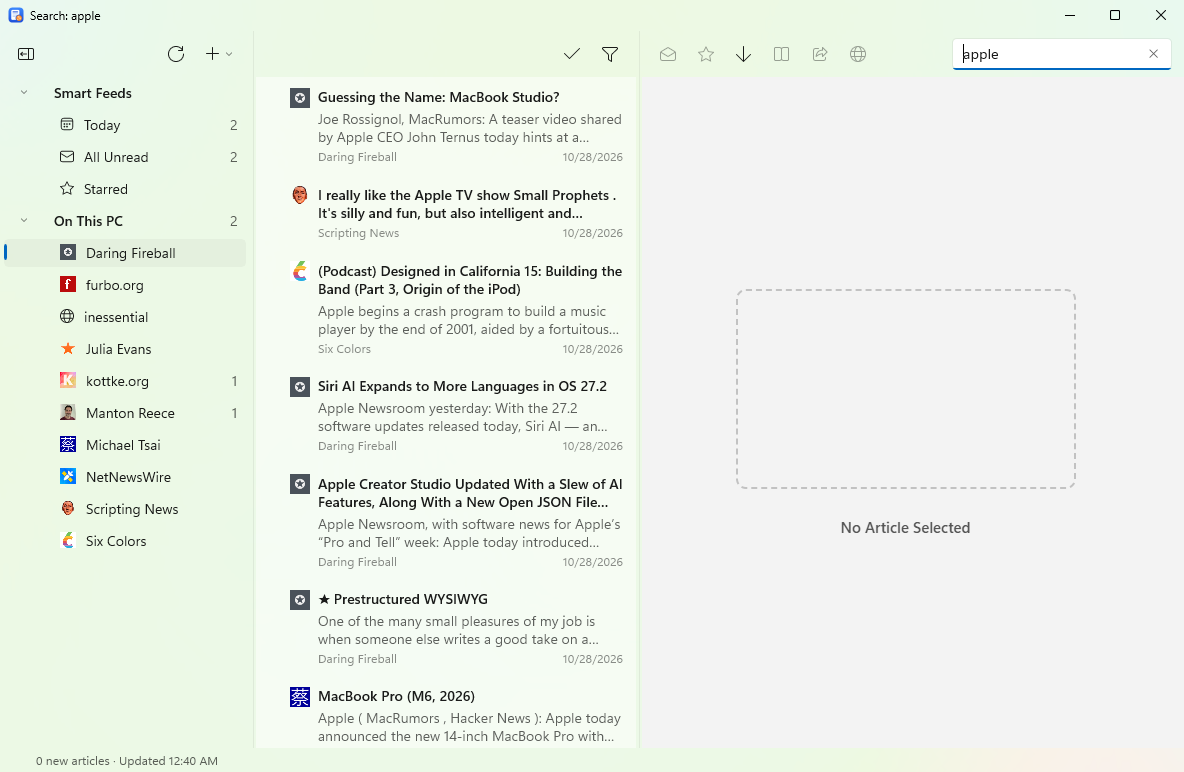
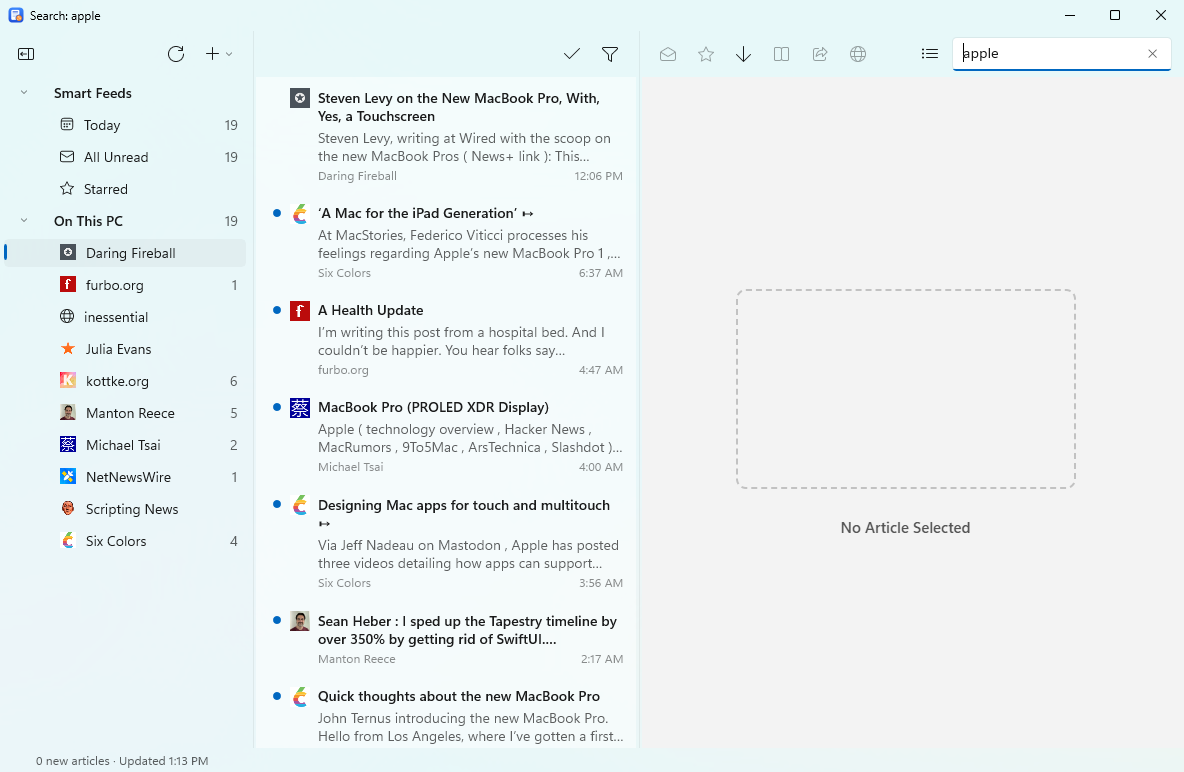
Add Group by Feed, search scope, timeline separators and pane font sizes
Group by Feed in the +▾ menu keeps each feed's articles together in name
order. A button beside the search box limits a search to the selected feed,
folder or smart feed. The hidden preferences TimelineSeparators,
SidebarFontSize and TimelineFontSize are read from settings.json. Help, PLAN
and the parity matrix are updated, and the screenshots retaken for the new
search button.

diff --git a/src/App/MainWindow.xaml b/src/App/MainWindow.xaml
@@ -94,6 +94,7 @@
                                                       IsChecked="{x:Bind ViewModel.HideReadFeeds, Mode=OneWay}" Click="OnToggleHideReadFeeds" />
                                 <RadioMenuFlyoutItem Text="Newest Article on Top" GroupName="Sort" IsChecked="{x:Bind ViewModel.SortNewestFirst, Mode=OneWay}" Click="OnSortNewestFirst" />
                                 <RadioMenuFlyoutItem Text="Oldest Article on Top" GroupName="Sort" IsChecked="{x:Bind ViewModel.SortOldestFirst, Mode=OneWay}" Click="OnSortOldestFirst" />
+                                <ToggleMenuFlyoutItem Text="Group by Feed" IsChecked="{x:Bind ViewModel.GroupByFeed, Mode=OneWay}" Click="OnToggleGroupByFeed" />
                                 <MenuFlyoutItem Text="Clean Up" KeyboardAcceleratorTextOverride="Ctrl+'"
                                                 IsEnabled="{x:Bind ViewModel.IsHidingReadArticles, Mode=OneWay}" Click="OnCleanUp" />
                                 <MenuFlyoutSeparator />
@@ -185,10 +186,18 @@
                     </Button>
                 </StackPanel>
                 <!-- NetNewsWire's toolbar search field: searches every article in every account. -->
-                <TextBox x:Name="SearchBox" Grid.Column="1" HorizontalAlignment="Right" VerticalAlignment="Center" Width="220"
-                         PlaceholderText="Search (Ctrl+Alt+F)" AutomationProperties.Name="Search Articles"
-                         Text="{x:Bind ViewModel.SearchText, Mode=TwoWay, UpdateSourceTrigger=PropertyChanged}"
-                         TextChanged="OnSearchTextChanged" KeyDown="OnSearchKeyDown" />
+                <StackPanel Grid.Column="1" Orientation="Horizontal" Spacing="4" HorizontalAlignment="Right" VerticalAlignment="Center">
+                    <!-- NetNewsWire's search scope: this feed, folder or smart feed only, rather than every article. -->
+                    <ToggleButton Style="{StaticResource ToolbarToggleButtonStyle}" Click="OnToggleSearchScope"
+                                  IsChecked="{x:Bind ViewModel.SearchCurrentTimeline, Mode=OneWay}"
+                                  ToolTipService.ToolTip="Search only the current feed, folder or smart feed" AutomationProperties.Name="Search Current Feed Only">
+                        <FontIcon Glyph="&#xE8FD;" FontSize="16" />
+                    </ToggleButton>
+                    <TextBox x:Name="SearchBox" Width="220"
+                             PlaceholderText="Search (Ctrl+Alt+F)" AutomationProperties.Name="Search Articles"
+                             Text="{x:Bind ViewModel.SearchText, Mode=TwoWay, UpdateSourceTrigger=PropertyChanged}"
+                             TextChanged="OnSearchTextChanged" KeyDown="OnSearchKeyDown" />
+                </StackPanel>
             </Grid>
 
             <TreeView x:Name="Sidebar" Grid.Row="1" Grid.Column="0" ItemsSource="{x:Bind ViewModel.SidebarItems}" DoubleTapped="OnSidebarDoubleTapped"
@@ -200,7 +209,7 @@
                 <TreeView.ItemTemplate>
                     <DataTemplate x:DataType="vm:SidebarItem">
                         <TreeViewItem ItemsSource="{x:Bind Children}" IsExpanded="{x:Bind IsExpanded, Mode=OneWay}"
-                                      ContextFlyout="{StaticResource SidebarMenu}"
+                                      ContextFlyout="{StaticResource SidebarMenu}" FontSize="{x:Bind vm:SidebarItem.TextSize}"
                                       AutomationProperties.Name="{x:Bind Title, Mode=OneWay}">
                             <!-- Drops land on the row's content, ahead of the tree's own drop handling, which would
                                  rearrange rows itself. -->
@@ -232,6 +241,7 @@
                 <ListView.ItemTemplate>
                     <DataTemplate x:DataType="vm:ArticleItem">
                         <Grid Padding="0,10" ColumnSpacing="8" ContextFlyout="{StaticResource ArticleMenu}"
+                              BorderThickness="{x:Bind vm:ArticleItem.SeparatorThickness}" BorderBrush="{ThemeResource DividerStrokeColorDefaultBrush}"
                               AutomationProperties.Name="{x:Bind Title}">
                             <Grid.ColumnDefinitions>
                                 <ColumnDefinition Width="10" />

diff --git a/site/help/index.html b/site/help/index.html
@@ -60,7 +60,7 @@
 			</figure>
 			<p>The <strong>+▾</strong> menu over the sidebar is where most of the less-used commands live:</p>
 			<figure class="shot narrow">
-				<img src="images/new-menu.png" width="292" height="853" alt="The +▾ menu, listing New Feed, New Folder, Import and Export Subscriptions, Add FreshRSS Account, Hide Read Feeds, sort order, Clean Up, Article Theme, Text Size, Enable JavaScript, Undo and Redo, Hide Toolbar, Window, Find in Article, Full Screen, Preferences and Help." loading="lazy">
+				<img src="images/new-menu.png" width="292" height="893" alt="The +▾ menu, listing New Feed, New Folder, Import and Export Subscriptions, Add FreshRSS Account, Hide Read Feeds, sort order, Group by Feed, Clean Up, Article Theme, Text Size, Enable JavaScript, Undo and Redo, Hide Toolbar, Window, Find in Article, Full Screen, Preferences and Help." loading="lazy">
 				<figcaption>The +▾ menu.</figcaption>
 			</figure>
 		</section>
@@ -90,6 +90,7 @@
 			</figure>
 
 			<p>Right-click an article for more: <strong>Mark Above as Read</strong> and <strong>Mark Below as Read</strong> catch up on everything newer or older in the list, and you can jump to the article's feed in the sidebar or mark everything in that feed as read.</p>
+			<p><strong>+▾ → Group by Feed</strong> keeps each feed's articles together in the timeline, feeds in name order, with the newest (or oldest) first inside each feed.</p>
 			<p>To see only what you haven't read, turn on <strong>Hide Read Articles</strong> over the timeline (per feed or folder), and <strong>+▾ → Hide Read Feeds</strong>. <strong>+▾ → Clean Up</strong> (<kbd>Ctrl</kbd>+<kbd>'</kbd>) clears articles you've just read out of a timeline that's hiding read ones. The sort order is in the +▾ menu too.</p>
 		</section>
 
@@ -154,6 +155,7 @@
 				<img src="images/search.png" width="1184" height="772" alt="The search box containing “apple”, and the timeline showing matching articles from several feeds." loading="lazy">
 				<figcaption>Searching every feed for “apple”.</figcaption>
 			</figure>
+			<p>To search only what the timeline is showing, press the list button beside the search box first: results are then limited to the selected feed, folder or smart feed. Press it again to search everything.</p>
 			<p>Press <kbd>Enter</kbd> to jump to the results. Press <kbd>Escape</kbd>, clear the box or choose something in the sidebar to stop searching.</p>
 		</section>
 
@@ -186,7 +188,9 @@
 			<ul>
 				<li><code>SuppressRefreshOnLaunch</code>: don't refresh when the app starts.</li>
 				<li><code>ArticleTitleInWindowTitle</code>: the window's title is the selected article's title.</li>
+				<li><code>TimelineSeparators</code>: a line between the articles in the timeline.</li>
 				<li><code>DoubleClickFeedMarksRead</code>: double-clicking a feed in the sidebar marks it read, instead of opening its home page.</li>
+				<li><code>SidebarFontSize</code> and <code>TimelineFontSize</code>: the size of the text in those two panes, in points, such as <code>16</code>. These are numbers; <code>0</code> keeps the default.</li>
 			</ul>
 		</section>
 

diff --git a/src/App/ViewModels/MainViewModel.cs b/src/App/ViewModels/MainViewModel.cs
@@ -716,6 +716,16 @@ public sealed partial class MainViewModel : ObservableObject
 		LoadSidebar();
 	}
 
+	public bool GroupByFeed => Settings.GroupByFeed;
+
+	public void SetGroupByFeed(bool group)
+	{
+		Settings.GroupByFeed = group;
+		SaveSettings();
+		OnPropertyChanged(nameof(GroupByFeed));
+		LoadArticles(keepSelection: true);
+	}
+
 	public void SetSortOldestFirst(bool oldestFirst)
 	{
 		Settings.SortOldestFirst = oldestFirst;
@@ -1311,6 +1321,21 @@ public sealed partial class MainViewModel : ObservableObject
 
 	private string? _searchString;
 
+	/// <summary>
+	/// NetNewsWire's search scope: with this on, a search looks only in what the timeline was showing (a feed, a folder or
+	/// a smart feed), not in every article. It has no effect when nothing with articles is selected.
+	/// </summary>
+	[ObservableProperty]
+	public partial bool SearchCurrentTimeline { get; set; }
+
+	partial void OnSearchCurrentTimelineChanged(bool value)
+	{
+		if (_searchString is not null)
+		{
+			LoadArticles(keepSelection: false);
+		}
+	}
+
 	public bool IsSearching => _searchString is not null;
 
 	/// <summary>
@@ -1417,7 +1442,7 @@ public sealed partial class MainViewModel : ObservableObject
 		var selected = keepSelection ? SelectedArticle : null;
 		var selectedMany = keepSelection && SelectedArticles.Count > 1 ? SelectedArticles : null;
 		var pairs = _searchString is { } search
-			? Accounts.ToList().SelectMany(account => account.Store.Search(search).Select(article => (Account: account, Article: article)))
+			? SearchResults(search)
 			: ArticlesFor(SelectedSidebarItem);
 		if (_searchString is null && SelectedSidebarItem is { } item && HidesReadArticles(item))
 		{
@@ -1430,10 +1455,9 @@ public sealed partial class MainViewModel : ObservableObject
 		{
 			list.Add((selected.Account, current));
 		}
-		var newestFirst = list.OrderByDescending(pair => pair.Article.LogicalDatePublished).ThenBy(pair => pair.Article.ArticleId, StringComparer.Ordinal);
-		var ordered = Settings.SortOldestFirst ? newestFirst.Reverse() : newestFirst;
 		var feedNames = list.Select(pair => pair.Account).Distinct()
 			.ToDictionary(account => account, account => account.Store.GetFeeds().ToDictionary(feed => feed.FeedId, NameSorting.DisplayName));
+		var ordered = Ordered(list, feedNames);
 		Articles = [.. ordered.Select(pair => new ArticleItem(pair.Account, pair.Article,
 			feedNames[pair.Account].GetValueOrDefault(pair.Article.FeedId, ""), _icons.GetValueOrDefault(IconKey(pair.Account, pair.Article.FeedId))))];
 		// Keeping the selection across a reload isn't the reader choosing the article again, so it doesn't mark it
@@ -1460,6 +1484,35 @@ public sealed partial class MainViewModel : ObservableObject
 		{
 			_restoringSelection = false;
 		}
+	}
+
+	/// <summary>
+	/// The timeline's order: by date, newest first unless the reader chose oldest first, with the feeds' articles kept
+	/// together, in the order of the feeds' names, when "Group by Feed" is on.
+	/// </summary>
+	private IEnumerable<(IAccount Account, StoredArticle Article)> Ordered(
+		List<(IAccount Account, StoredArticle Article)> list,
+		Dictionary<IAccount, Dictionary<string, string>> feedNames)
+	{
+		var newestFirst = list.OrderByDescending(pair => pair.Article.LogicalDatePublished).ThenBy(pair => pair.Article.ArticleId, StringComparer.Ordinal).ToList();
+		if (Settings.SortOldestFirst)
+		{
+			newestFirst.Reverse();
+		}
+		return Settings.GroupByFeed
+			? newestFirst.OrderBy(pair => feedNames[pair.Account].GetValueOrDefault(pair.Article.FeedId, ""), StringComparer.CurrentCultureIgnoreCase)
+			: newestFirst;
+	}
+
+	private IEnumerable<(IAccount Account, StoredArticle Article)> SearchResults(string search)
+	{
+		var hits = Accounts.ToList().SelectMany(account => account.Store.Search(search).Select(article => (Account: account, Article: article))).ToList();
+		if (!SearchCurrentTimeline || SelectedSidebarItem is not { IsGroup: false } scope)
+		{
+			return hits;
+		}
+		var inScope = ArticlesFor(scope).Select(pair => (pair.Account, pair.Article.ArticleId)).ToHashSet();
+		return hits.Where(hit => inScope.Contains((hit.Account, hit.Article.ArticleId)));
 	}
 
 	/// <summary>The articles a row shows, each with its account. Smart feeds gather from every account.</summary>

diff --git a/src/App/MainWindow.xaml.cs b/src/App/MainWindow.xaml.cs
@@ -108,6 +108,7 @@ public sealed partial class MainWindow : Window
 			_ = ViewModel.RefreshAsync();
 		}
 		ApplyToolbarVisibility();
+		ApplyPaneStyles();
 
 		_badge = new TaskbarBadge(this);
 		ViewModel.UnreadBadgeChanged += (_, _) => _badge.Update(ViewModel.TotalUnread, ViewModel.Settings.UnreadCounts);
@@ -513,6 +514,28 @@ public sealed partial class MainWindow : Window
 	{
 		ViewModel.SetSortOldestFirst(oldestFirst);
 		button.IsChecked = true;
+	}
+
+	private void OnToggleGroupByFeed(object sender, RoutedEventArgs e) => ViewModel.SetGroupByFeed(((ToggleMenuFlyoutItem)sender).IsChecked);
+
+	private void OnToggleSearchScope(object sender, RoutedEventArgs e) => ViewModel.SearchCurrentTimeline = ((Microsoft.UI.Xaml.Controls.Primitives.ToggleButton)sender).IsChecked == true;
+
+	/// <summary>NetNewsWire's hidden preferences for the panes: font sizes and separators between timeline rows.</summary>
+	private void ApplyPaneStyles()
+	{
+		var settings = ViewModel.Settings;
+		// The rows' own styles set a font size, so it has to be set on them rather than inherited from the list.
+		if (settings.SidebarFontSize > 0)
+		{
+			SidebarItem.TextSize = settings.SidebarFontSize;
+		}
+		if (settings.TimelineFontSize > 0)
+		{
+			var style = new Style(typeof(ListViewItem)) { BasedOn = (Style)Application.Current.Resources["DefaultListViewItemStyle"] };
+			style.Setters.Add(new Setter(Control.FontSizeProperty, settings.TimelineFontSize));
+			Timeline.ItemContainerStyle = style;
+		}
+		ArticleItem.SeparatorThickness = settings.TimelineSeparators ? new Thickness(0, 0, 0, 1) : new Thickness(0);
 	}
 
 	private void OnCleanUp(object sender, RoutedEventArgs e) => ViewModel.CleanUp();

diff --git a/src/Core/AppSettings.cs b/src/Core/AppSettings.cs
@@ -36,6 +36,17 @@ public sealed class AppSettings
 	/// <summary>Accounts the reader has turned off: hidden from the sidebar and skipped when refreshing.</summary>
 	public HashSet<string> DisabledAccountIds { get; set; } = [];
 
+	/// <summary>NetNewsWire's "Group by Feed": the timeline lists each feed's articles together, feeds in name order.</summary>
+	public bool GroupByFeed { get; set; }
+
+	/// <summary><c>CorreiaSeparators</c>: a line between the timeline's articles.</summary>
+	public bool TimelineSeparators { get; set; }
+
+	/// <summary><c>sidebarFontSize</c> and <c>timelineFontSize</c>: the size of the text in those panes, in points; 0 keeps the default.</summary>
+	public double SidebarFontSize { get; set; }
+
+	public double TimelineFontSize { get; set; }
+
 	/// <summary>NetNewsWire's Hide Toolbar state.</summary>
 	public bool ToolbarHidden { get; set; }
 

diff --git a/tests/Store.Tests/AppSettingsTests.cs b/tests/Store.Tests/AppSettingsTests.cs
@@ -90,6 +90,24 @@ public sealed class AppSettingsTests : IDisposable
 	}
 
 	[Fact]
+	public void TimelineSettingsDefaultOffAndRoundTrip()
+	{
+		var defaults = new AppSettings();
+		Assert.False(defaults.GroupByFeed);
+		Assert.False(defaults.TimelineSeparators);
+		Assert.Equal(0, defaults.SidebarFontSize);
+		Assert.Equal(0, defaults.TimelineFontSize);
+
+		new AppSettings { GroupByFeed = true, TimelineSeparators = true, SidebarFontSize = 16, TimelineFontSize = 15.5 }.Save(SettingsPath);
+		var loaded = AppSettings.Load(SettingsPath);
+
+		Assert.True(loaded.GroupByFeed);
+		Assert.True(loaded.TimelineSeparators);
+		Assert.Equal(16, loaded.SidebarFontSize);
+		Assert.Equal(15.5, loaded.TimelineFontSize);
+	}
+
+	[Fact]
 	public void MissingFileGivesDefaults()
 	{
 		var settings = AppSettings.Load(SettingsPath);

diff --git a/src/App/ViewModels/ArticleItem.cs b/src/App/ViewModels/ArticleItem.cs
@@ -10,6 +10,9 @@ public sealed partial class ArticleItem : ObservableObject
 {
 	private const int MaxSummaryLength = 300;
 
+	/// <summary>The line under each timeline row: <c>CorreiaSeparators</c>. Set at launch, before rows are made.</summary>
+	public static Microsoft.UI.Xaml.Thickness SeparatorThickness { get; set; }
+
 	private string? _summary;
 
 	public ArticleItem(Core.IAccount account, StoredArticle article, string feedName, Microsoft.UI.Xaml.Media.ImageSource? icon)

diff --git a/src/App/ViewModels/SidebarItem.cs b/src/App/ViewModels/SidebarItem.cs
@@ -26,6 +26,9 @@ public sealed partial class SidebarItem : ObservableObject
 		Title = title;
 	}
 
+	/// <summary><c>sidebarFontSize</c>: the size of the sidebar's text, in points. Set at launch, before rows are made.</summary>
+	public static double TextSize { get; set; } = 14;
+
 	public SidebarItemKind Kind { get; }
 
 	/// <summary>Identifies the row across sidebar rebuilds. A feed in two folders has two keys.</summary>

diff --git a/docs/parity-matrix.md b/docs/parity-matrix.md
@@ -25,9 +25,9 @@ Audited against the app on 2026-10-29. Each row has a status:
 
 | Status | Rows |
 | --- | --- |
-| Done | 144 |
+| Done | 149 |
 | Partial | 17 |
-| Open | 23 |
+| Open | 18 |
 | Unchecked | 26 |
 | Installer | 6 |
 | Keys | 2 |
@@ -40,16 +40,16 @@ By section:
 | --- | --- | --- | --- | --- | --- | --- | --- |
 | Feed formats and networking | 13 |  | 1 |  |  |  |  |
 | Accounts and sync | 6 |  | 4 |  |  | 2 | 1 |
-| Main window and layout | 5 | 2 | 4 |  |  |  | 1 |
+| Main window and layout | 6 | 2 | 3 |  |  |  | 1 |
 | Toolbar items | 14 |  |  |  |  |  |  |
 | Sidebar | 13 | 2 | 2 | 3 |  |  |  |
-| Smart feeds and timeline | 9 | 1 | 5 |  |  |  |  |
+| Smart feeds and timeline | 12 | 1 | 2 |  |  |  |  |
 | Reading state | 8 |  |  |  |  |  |  |
 | Article view | 11 | 1 | 1 | 1 |  |  |  |
 | Feed management and import/export | 2 | 3 | 2 |  |  |  | 1 |
 | Inspector | 6 |  |  |  |  |  |  |
 | Notifications | 3 | 1 |  |  |  |  |  |
-| Preferences | 7 | 1 | 2 | 3 | 3 |  | 2 |
+| Preferences | 8 | 1 | 1 | 3 | 3 |  | 2 |
 | Utility windows | 3 | 1 |  | 2 | 1 |  | 1 |
 | Other | 3 | 3 | 1 |  | 2 |  |  |
 | Dropped Apple-only features |  |  |  |  |  |  | 13 |
@@ -112,7 +112,7 @@ By section:
 | MW-06 | Theme menu in status bar | `toggleStatusBarThemeMenu:` | Port | Partial: the theme menu is in +▾, not a status bar | UI: picking a theme re-renders article |
 | MW-07 | Multiple main windows | `newMainWindow:` | Port | Open: one main window | UI: second window has independent selection |
 | MW-08 | Window state restore (panes, selection, layout) | `*WindowState.swift` | Port | Done | UI: restart restores layout and selected feed |
-| MW-09 | Sidebar/timeline/article font sizes (hidden defaults) | `sidebarFontSize` etc. | Port | Open: font sizes are fixed | Unit: setting is applied on launch |
+| MW-09 | Sidebar/timeline/article font sizes (hidden defaults) | `sidebarFontSize` etc. | Port | Done | Unit: setting is applied on launch |
 | MW-10 | Full screen | `toggleFullScreen:` | Port | Done | F11. UI: toggles full screen |
 | MW-11 | Show/hide toolbar | `toggleToolbarShown:` | Port | Done | UI: toolbar hides and shows |
 | MW-12 | Toolbar customization palette | `runToolbarCustomizationPalette:` | Drop | Dropped | No native WinUI equivalent; default toolbar ships fixed. Revisit after 1.0 |
@@ -165,14 +165,14 @@ Default order: Toggle Sidebar, Refresh, New (Feed/Folder menu) | Mark All as Rea
 | SF-02 | All Unread | `UnreadFeed.swift` | Port | Done | Unit: count equals sum of feeds |
 | SF-03 | Starred | `StarredFeedDelegate.swift` | Port | Done | Unit: starred articles only |
 | SF-04 | Search (as a feed, across all accounts) | `SearchFeedDelegate.swift` | Port | Done | Unit: title and body match; side-by-side same results |
-| SF-05 | Search within current timeline | `SearchTimelineFeedDelegate.swift` | Port | Open: search covers every feed only | Unit: limited to selected feed |
+| SF-05 | Search within current timeline | `SearchTimelineFeedDelegate.swift` | Port | Done | Unit: limited to selected feed |
 | TL-01 | Sort by date, ascending/descending | `ArticleSorter.swift` | Port | Done | Unit: sort order matches NNW for fixtures |
 | TL-02 | Sort by feed, title, unread, starred (column layout) | `sortArticlesByField:` | Port | Open: tied to the column layout | UI: View > Sort Articles By changes order |
-| TL-03 | Group by feed | `timelineGroupByFeed` | Port | Open: no grouping by feed | Unit + UI |
+| TL-03 | Group by feed | `timelineGroupByFeed` | Port | Done | Unit + UI |
 | TL-04 | Hide read articles | `toggleReadArticlesFilter:` | Port | Done | UI: read articles hide; current selection stays |
 | TL-05 | Clean up (drop read from current view) | `cleanUp:` | Port | Done | UI: read rows removed |
 | TL-06 | Row shows title, summary, feed, date, icon, author avatar, unread dot, star | `Timeline/Cell` | Port | Partial: no author avatar | Side-by-side screenshot review |
-| TL-07 | Separators (hidden pref) | `CorreiaSeparators` | Port | Open: no separators | UI: setting toggles separators |
+| TL-07 | Separators (hidden pref) | `CorreiaSeparators` | Port | Done | UI: setting toggles separators |
 | TL-08 | Context menu: Mark Read/Unread, Star/Unstar, Mark Above/Below as Read, Select Feed in Sidebar, Mark All as Read in feed, Open in Browser, Copy Article URL, Copy External URL, Share | `menu(for:)` | Port | Done | UI: items present in this order |
 | TL-09 | Drag article out as URL | `ArticlePasteboardWriter.swift` | Port | Open: articles can't be dragged out | UI: drop on browser opens URL |
 | TL-10 | Undo for mark read / star | `MarkStatusCommand.swift` | Port | Done | UI: Ctrl+Z reverts |
@@ -260,7 +260,7 @@ Default order: Toggle Sidebar, Refresh, New (Feed/Folder menu) | Mark All as Rea
 | PR-12 | Advanced | Send crash logs automatically | Port | Installer: needs the installer | Tied to crash reporting choice |
 | PR-13 | Advanced | Privacy policy link | Port | Installer: needs the installer | Needs own policy |
 | PR-14 | Hidden | `ShowDebugMenu` | Port | Open | Unit |
-| PR-15 | Hidden | `CorreiaSeparators` (timeline separators) | Port | Open | See TL-07 |
+| PR-15 | Hidden | `CorreiaSeparators` (timeline separators) | Port | Done | See TL-07 |
 | PR-16 | Hidden | `KafasisTitleMode` (title on main window) | Port | Unchecked: ArticleTitleInWindowTitle in settings.json; setting tested, behavior not run | UI |
 | PR-17 | Hidden | `GruberFeedDoubleClickMarkAsRead` | Port | Unchecked: DoubleClickFeedMarksRead in settings.json; setting tested, behavior not run | See SB-09 |
 | PR-18 | Hidden | `DevroeSuppressSyncOnLaunch` | Port | Unchecked: SuppressRefreshOnLaunch in settings.json; setting tested, behavior not run | Unit: no refresh at launch |

diff --git a/docs/PLAN.md b/docs/PLAN.md
@@ -128,7 +128,7 @@ Parity is proven by a release checklist run side by side with the Mac app, not b
 
 ## Next steps
 
-The [parity matrix](parity-matrix.md) has a status for each of its 237 rows (audited 2026-10-29): 144 done, 17 partial, 23 open, 26 unchecked (built, but the shortcuts, double-click, right-click menu, the hidden preferences, and failures showing in the logs have not been tried with real input), 6 waiting for the installer, 2 waiting for service keys, and 19 dropped.
+The [parity matrix](parity-matrix.md) has a status for each of its 237 rows (audited 2026-10-29): 149 done, 17 partial, 18 open, 26 unchecked (built, but the shortcuts, double-click, right-click menu, the hidden preferences other than the timeline ones, and failures showing in the logs have not been tried with real input), 6 waiting for the installer, 2 waiting for service keys, and 19 dropped.
 
 - [ ] Start the code-signing route (Trusted Signing eligibility or OV certificate)
 - [ ] Apply for Feedly API access
@@ -158,6 +158,7 @@ The [parity matrix](parity-matrix.md) has a status for each of its 237 rows (aud
   - [x] App badge count (NT-04, NetNewsWire's Dock badge): the unread total on the taskbar icon, drawn as an overlay since Windows' badge API needs a packaged app; follows the Unread Counts preference (number, 99+, dot or none)
   - [x] Empty timeline: with no feed (or a group heading) selected, the middle column says "No Feed Selected", as the article pane says "No Article Selected"
   - [x] Find in Article (Ctrl+F, F3, Shift+F3, Esc) with a match count, Full Screen (F11), Mark Above/Below as Read, Copy Article/External URL, Ctrl+W, Ctrl+0 and Ctrl+Right to open in the browser. Double-clicking a feed opens its home page, and right-clicking empty sidebar space offers New Feed and New Folder. The find bar and Full Screen were driven in the running app; the keystrokes, double-click and right-click were not (no real input available), so those matrix rows read Unchecked.
+  - [x] Timeline: Group by Feed (+▾ menu), a search scope button that limits a search to the selected feed, folder or smart feed, and the hidden preferences TimelineSeparators, SidebarFontSize and TimelineFontSize (in settings.json). All driven in the running app; the font sizes apply to the sidebar rows and the timeline titles and summaries, not the small date and feed lines.
   - [x] Utility windows from the +▾ → Window menu (Ctrl+6 Dinosaurs, Ctrl+7 Current Activity, Ctrl+8 Activity Log, Ctrl+9 Error Log, and Account Stats): an in-memory `ActivityLog` that the local account fills as each feed refreshes, per-account counts, and feeds with no article in six months, whose deletion can be undone. Activity Log, Account Stats and Dinosaurs (delete, then Undo Delete) were driven in the running app; the shortcuts, and a failure or a download under way showing in the logs, were not.
   - [x] About window, Open App Data Folder, Hide/Show Toolbar (Ctrl+Alt+T) and the hidden preferences SuppressRefreshOnLaunch, ArticleTitleInWindowTitle and DoubleClickFeedMarksRead (in settings.json). About and Hide Toolbar were driven in the running app; the three preferences have a settings test only.
   - [x] Undo and redo (Ctrl+Z, Ctrl+Y, Ctrl+Shift+Z, and Undo/Redo in the +▾ menu, which names the command) for mark read/unread, star/unstar, Mark All as Read and Mark Older as Read, and for deleting a feed or folder, which subscribes again in the same folder with the same edited name. Mark read and star were undone and redone in the running app; deleting was not driven there (it needs a right-click), so its store steps are covered by tests instead.
